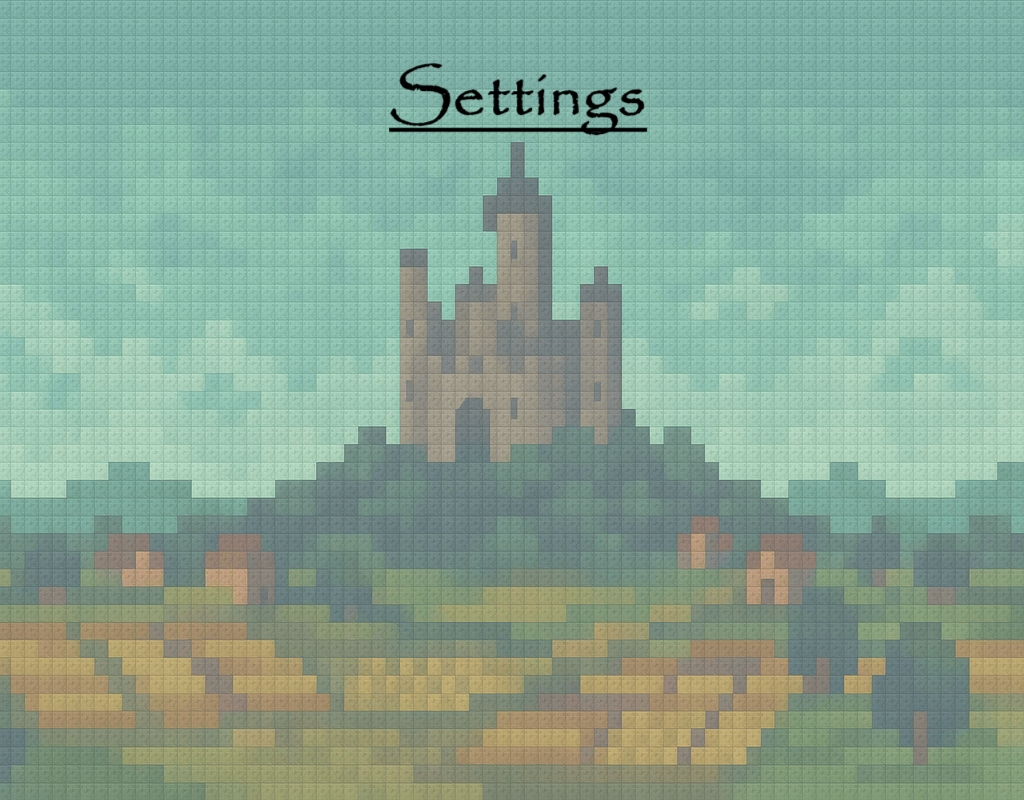
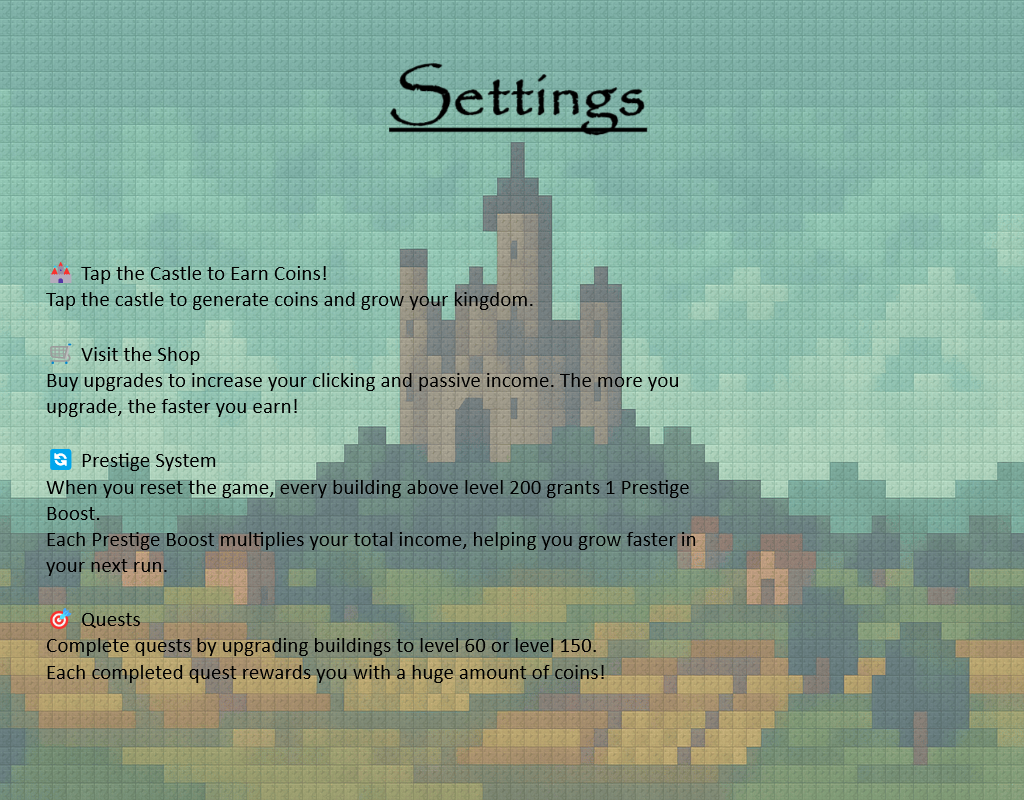
Quests - reward for level of buildings 60/150

diff --git a/src/Building.java b/src/Building.java
@@ -19,6 +19,7 @@ public abstract class Building {
     /**
      * Upgrades the building: subtracts the upgrade cost from the current balance,
      * increases the level, recalculates the new upgrade cost,
+     * quest reward for lvl 60 and 150,
      * and adds the click and passive income boosts.
      * Then saves the updated building state to a file.
      *
@@ -32,6 +33,10 @@ public abstract class Building {
         balance.addClickIncome(clickBoost * balance.prestigeBoost());
         balance.addPassiveIncome(passiveBoost * balance.prestigeBoost());
         save(filename);
+
+        if (getLvl() == 60 || getLvl() == 150) {
+            balance.addBalance(upgradeCost * balance.prestigeBoost() + 1000);
+        }
 
         return true;
     }
@@ -48,7 +53,7 @@ public abstract class Building {
     public boolean save(String filename) {
         try {
             FileWriter writer = new FileWriter(filename, false);
-            writer.write(String.valueOf(lvl)+";"+ String.valueOf(passiveBoost)+";"+ String.valueOf(clickBoost)+";"+ String.valueOf(upgradeCostMult));
+            writer.write(String.valueOf(lvl) + ";" + String.valueOf(passiveBoost) + ";" + String.valueOf(clickBoost) + ";" + String.valueOf(upgradeCostMult));
             writer.close();
             return true;
         } catch (IOException e) {
@@ -95,8 +100,8 @@ public abstract class Building {
      * @param filename2 Path to the image for levels 61–150.
      * @param filename3 Path to the image for levels 151 and above.
      * @return A number representing which image was used:
-     *         1 (filename1), 2 (filename2), 3 (filename3),
-     *         or 0 if the level is invalid.
+     * 1 (filename1), 2 (filename2), 3 (filename3),
+     * or 0 if the level is invalid.
      */
     public int loadImage(String filename1, String filename2, String filename3) {
         if (getLvl() <= 60 && getLvl() > 0) {

diff --git a/src/Main.java b/src/Main.java
@@ -2,21 +2,6 @@
 public class Main {
     public static void main(String[] args) {
         System.out.println("Hello world!");
-        /*
-                          🏰 Kingdom Tycoon – Popis hry
-
-             Kingdom Tycoon je grafická klikací tycoon hra, ve které se hráč ujímá role
-             vládce vlastního království. Cílem hry je postupně budovat a rozvíjet
-             království pomocí investic, vylepšení a plnění úkolů.
-
-             Hráč začíná s malým množstvím prostředků a získává zlato buď aktivním klikáním, nebo prostřednictvím
-             pasivního příjmu z vybudovaných budov. Každá budova má své vizuální ztvárnění, které se mění podle
-             její úrovně a fáze vývoje.
-
-             Součástí hry jsou i speciální úkoly, za jejichž splnění hráč získá odměny ve formě zlata nebo
-             dočasných boostů. V pozdější fázi hry se zpřístupní prestige systém, který umožní hráči resetovat
-             svůj postup výměnou za speciální měnu. Ta poskytuje trvalé vylepšení příjmů a další výhody.
-         */
 
         new Start();
     }

diff --git a/src/Balance.java b/src/Balance.java
@@ -58,6 +58,16 @@ public class Balance {
 
     }
 
+    /**
+     * Reads the prestige boost value from the `prestigeBoostFile`.
+     * <p>
+     * The file is expected to contain a single line (or the last valid line is used),
+     * with the boost value as the first semicolon-separated field.
+     * </p>
+     *
+     * @return the integer value representing the prestige boost.
+     * @throws RuntimeException if the file is not found or cannot be read.
+     */
     public int prestigeBoost(){
         int boost = 0;
         String line;

diff --git a/src/Menu.java b/src/Menu.java
@@ -101,7 +101,8 @@ public class Menu extends JFrame implements ActionListener {
     }
 
     /**
-     * Starts a new game by resetting relevant game data files.
+     * Starts a new game by resetting relevant game data files
+     * and adds prestige boost;
      * Reads file names and default values from a configuration text file,
      * and overwrites the content in each specified file with default values.
      *
